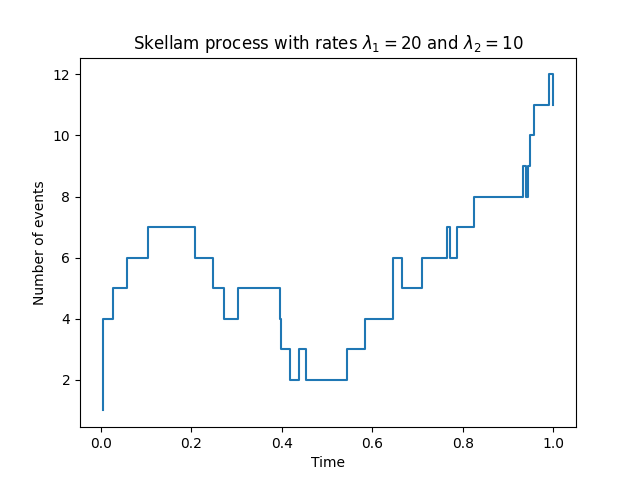
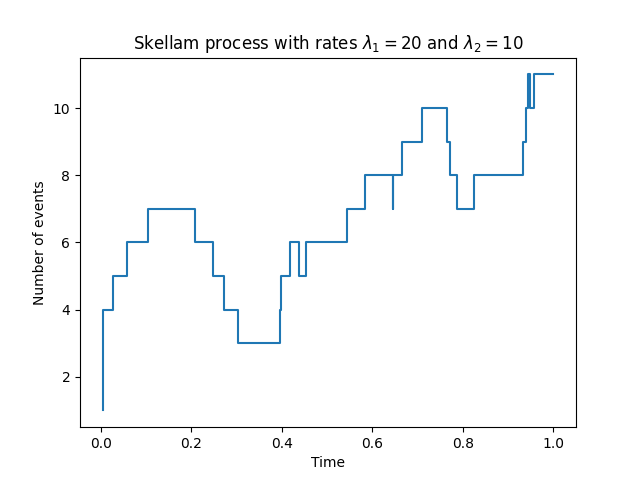
fix bug

diff --git a/src/skellum_process.py b/src/skellum_process.py
@@ -1,23 +1,25 @@
 import jax
 import jax.numpy as jnp
 
-from poisson_process import poisson_process
+from poisson_process import poisson_process_core
 
 def skellam_process(lam1: float, lam2: float, total_time: float, key: jax.random.PRNGKey):
     key1, key2 = jax.random.split(key)
-    t1, y1 = poisson_process(lam1, total_time, key1)
-    t2, y2 = poisson_process(lam2, total_time, key2)
+    t1, y1 = poisson_process_core(lam1, total_time, key1)
+    t2, y2 = poisson_process_core(lam2, total_time, key2)
 
     # merge t1 and t2
     total_t = jnp.concatenate([t1, t2])
     # argsort
     idx = jnp.argsort(total_t)
     total_t = total_t[idx]
-    y = jnp.concatenate([jnp.ones_like(t1), -jnp.ones_like(t2)])[idx]
-    y = y[idx]
+    mask = total_t < total_time
+    total_t = total_t[mask]
+    y = jnp.concatenate([jnp.ones_like(t1), -jnp.ones_like(t2)])[idx][mask]
     y = jnp.cumsum(y)
+    total_t = jnp.append(total_t, total_time)
+    y = jnp.append(y, y[-1])
     return total_t, y
-
 
 if __name__ == "__main__":
     lam1 = 20.0
